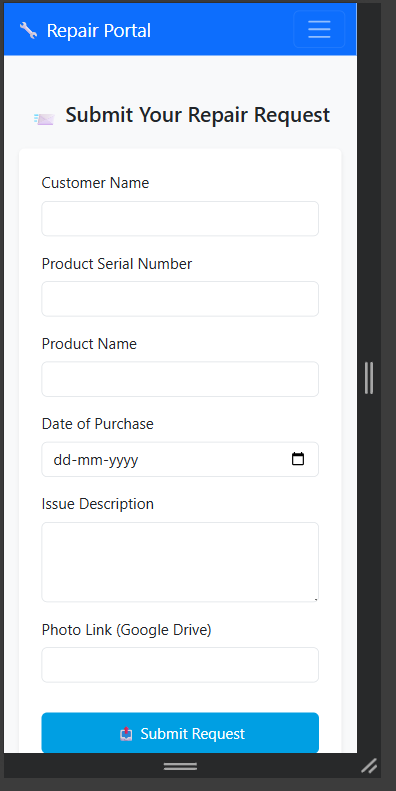
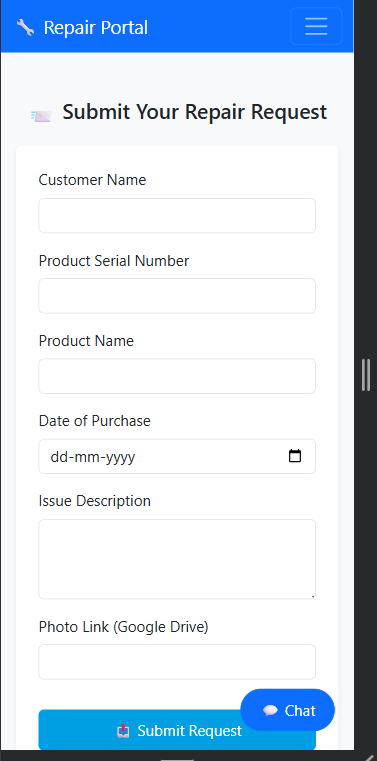
Initial commit for A-1 Launchpad case study

diff --git a/style.css b/style.css
@@ -188,3 +188,153 @@ color: var(--success-text-color);
   font-size: 1.1rem;
   margin-bottom: 1rem;
 }
+
+/* 🤖 Chatbot Widget Styles */
+.chatbot-toggle {
+  position: fixed;
+  bottom: 20px;
+  right: 20px;
+  background: #0d6efd;
+  color: #fff;
+  padding: 12px 14px;
+  border-radius: 50%;
+  font-size: 20px;
+  cursor: pointer;
+  z-index: 999;
+  box-shadow: 0 4px 12px rgba(0,0,0,0.2);
+}
+
+.chatbot-widget {
+  position: fixed;
+  bottom: 80px;
+  right: 20px;
+  width: 300px;
+  background: #ffffff;
+  border-radius: 10px;
+  box-shadow: 0 6px 20px rgba(0,0,0,0.2);
+  display: none;
+  flex-direction: column;
+  z-index: 999;
+  border: 1px solid #ddd;
+}
+
+.chatbot-header {
+  background: #0d6efd;
+  color: #fff;
+  padding: 10px;
+  font-weight: bold;
+  display: flex;
+  justify-content: space-between;
+  align-items: center;
+  border-top-left-radius: 10px;
+  border-top-right-radius: 10px;
+}
+
+.chatbot-messages {
+  padding: 10px;
+  height: 200px;
+  overflow-y: auto;
+  font-size: 14px;
+  background: #f8f9fa;
+}
+
+.bot-msg, .user-msg {
+  margin-bottom: 8px;
+  padding: 6px 10px;
+  border-radius: 8px;
+  max-width: 90%;
+}
+
+.bot-msg {
+  background: #e9ecef;
+  color: #000;
+  align-self: flex-start;
+}
+
+.user-msg {
+  background: #0d6efd;
+  color: #fff;
+  align-self: flex-end;
+  text-align: right;
+}
+
+/* 🤖 Chatbot Styles */
+.chatbot-btn {
+  position: fixed;
+  bottom: 20px;
+  right: 20px;
+  z-index: 999;
+  border-radius: 50px;
+  padding: 10px 20px;
+}
+
+.chatbot-widget {
+  position: fixed;
+  bottom: 20px;
+  right: 20px;
+  width: 280px;
+  background: white;
+  border: 1px solid #ccc;
+  border-radius: 10px;
+  overflow: hidden;
+  display: none;
+  flex-direction: column;
+  box-shadow: 0 4px 8px rgba(0,0,0,0.1);
+  font-size: 0.9rem;
+  z-index: 999;
+}
+
+
+.chatbot-header {
+  background: #007bff;
+  color: white;
+  padding: 10px;
+  border-top-left-radius: 12px;
+  border-top-right-radius: 12px;
+  display: flex;
+  justify-content: space-between;
+  align-items: center;
+}
+
+.chatbot-body {
+  padding: 10px;
+  height: 200px;
+  overflow-y: auto;
+  background: #f8f9fa;
+}
+
+.chatbot-input {
+  display: flex;
+  border-top: 1px solid #ddd;
+}
+
+.chatbot-input input {
+  flex: 1;
+  border: none;
+  padding: 8px;
+}
+
+.chatbot-input button {
+  background: #007bff;
+  color: white;
+  border: none;
+  padding: 8px 12px;
+}
+
+.user-msg, .bot-msg {
+  margin: 6px 0;
+  padding: 8px 10px;
+  border-radius: 8px;
+  max-width: 80%;
+  word-wrap: break-word;
+}
+
+.user-msg {
+  background-color: #d1e7dd;
+  align-self: flex-end;
+}
+
+.bot-msg {
+  background-color: #e2e3e5;
+  align-self: flex-start;
+}

diff --git a/script.js b/script.js
@@ -22,12 +22,11 @@ if (form) {
     localStorage.setItem("repairRequest", JSON.stringify(request));
     form.reset();
 
-// Show confirmation modal instead of alert
-const modal = document.getElementById("confirmationModal");
-if (modal) {
-  modal.style.display = "flex";
-}
-
+    // Show confirmation modal instead of alert
+    const modal = document.getElementById("confirmationModal");
+    if (modal) {
+      modal.style.display = "flex";
+    }
   });
 }
 
@@ -51,9 +50,11 @@ document.addEventListener("DOMContentLoaded", function () {
     });
   });
 });
+
+// STATUS FILTER
 const statusFilter = document.getElementById("statusFilter");
 
-statusFilter.addEventListener("change", function () {
+statusFilter?.addEventListener("change", function () {
   const selected = this.value;
   const rows = document.querySelectorAll("table tbody tr");
 
@@ -67,6 +68,7 @@ statusFilter.addEventListener("change", function () {
   });
 });
 
+// COUNTING STATS
 window.addEventListener("DOMContentLoaded", () => {
   const rows = document.querySelectorAll("table tbody tr");
   let total = rows.length;
@@ -83,6 +85,7 @@ window.addEventListener("DOMContentLoaded", () => {
   document.getElementById("inProgressCount").innerText = `In Progress: ${inProgress}`;
   document.getElementById("completedCount").innerText = `Completed: ${completed}`;
 });
+
 // MODAL CLOSE FUNCTIONALITY
 const closeModalBtn = document.getElementById("closeModalBtn");
 if (closeModalBtn) {
@@ -93,3 +96,27 @@ if (closeModalBtn) {
     }
   });
 }
+
+// ADVANCED FAQ TOGGLE
+document.addEventListener("DOMContentLoaded", () => {
+  const faqItems = document.querySelectorAll('.faq-item');
+
+  faqItems.forEach((item) => {
+    const question = item.querySelector('.faq-question');
+    question.addEventListener('click', () => {
+      // Close all other answers
+      faqItems.forEach((el) => {
+        if (el !== item) el.classList.remove('open');
+      });
+
+      // Toggle current
+      item.classList.toggle('open');
+    });
+  });
+});
+
+
+
+
+
+

diff --git a/index.html b/index.html
@@ -64,9 +64,22 @@
       <button type="submit" class="request-btn w-100 mt-3">📤 Submit Request</button>
 
     </form>
-    <h5 style="margin-top: 1.5rem;">Latest Request:</h5>
-  <p id="recent-request" style="font-style: italic; color: #333;"></p>
+    
+  <!-- 🤖 Chatbot Button + Widget -->
+<button id="chatbotToggle" class="btn btn-primary chatbot-btn">💬 Chat</button>
+
+<div id="chatbotWidget" class="chatbot-widget" style="display: none;">
+  <div class="chatbot-header">
+    <span>RepairBot</span>
+    <button id="closeChatbot">✖</button>
+  </div>
+  <div class="chatbot-body" id="chatbotMessages"></div>
+  <div class="chatbot-input">
+    <input type="text" id="chatbotInput" placeholder="Ask a question..." />
+    <button id="sendChatbot">➤</button>
+  </div>
 </div>
+
 
     <div id="msg" class="text-success mt-3 text-center" style="display: none;">
       ✅ Request submitted successfully!
@@ -80,6 +93,7 @@
     <button id="closeModalBtn" class="request-btn">Close</button>
   </div>
 </div>
+
 
 
   <!-- 📄 Footer -->
@@ -113,6 +127,7 @@
         console.error(err);
       }
     });
+
   </script>
 
   <script src="https://cdn.jsdelivr.net/npm/bootstrap@5.3.0/dist/js/bootstrap.bundle.min.js"></script>

diff --git a/dashboard.html b/dashboard.html
@@ -106,6 +106,29 @@
     <small>© 2025 Repair Services Portal. All rights reserved.</small>
   </footer>
 
+  <script>
+  document.addEventListener("DOMContentLoaded", function () {
+    const statusFilter = document.getElementById("statusFilter");
+    const rows = document.querySelectorAll("#dashboardTable tbody tr");
+
+    statusFilter.addEventListener("change", function () {
+      const selectedStatus = this.value.toLowerCase();
+
+      rows.forEach(row => {
+        const statusSpan = row.querySelector(".status-badge");
+        const rowStatus = statusSpan.textContent.toLowerCase();
+
+        if (selectedStatus === "all" || rowStatus === selectedStatus) {
+          row.style.display = "";
+        } else {
+          row.style.display = "none";
+        }
+      });
+    });
+  });
+</script>
+
+
   <!-- 🔍 Search Logic -->
   <script>
     document.getElementById("searchInput").addEventListener("keyup", function () {
